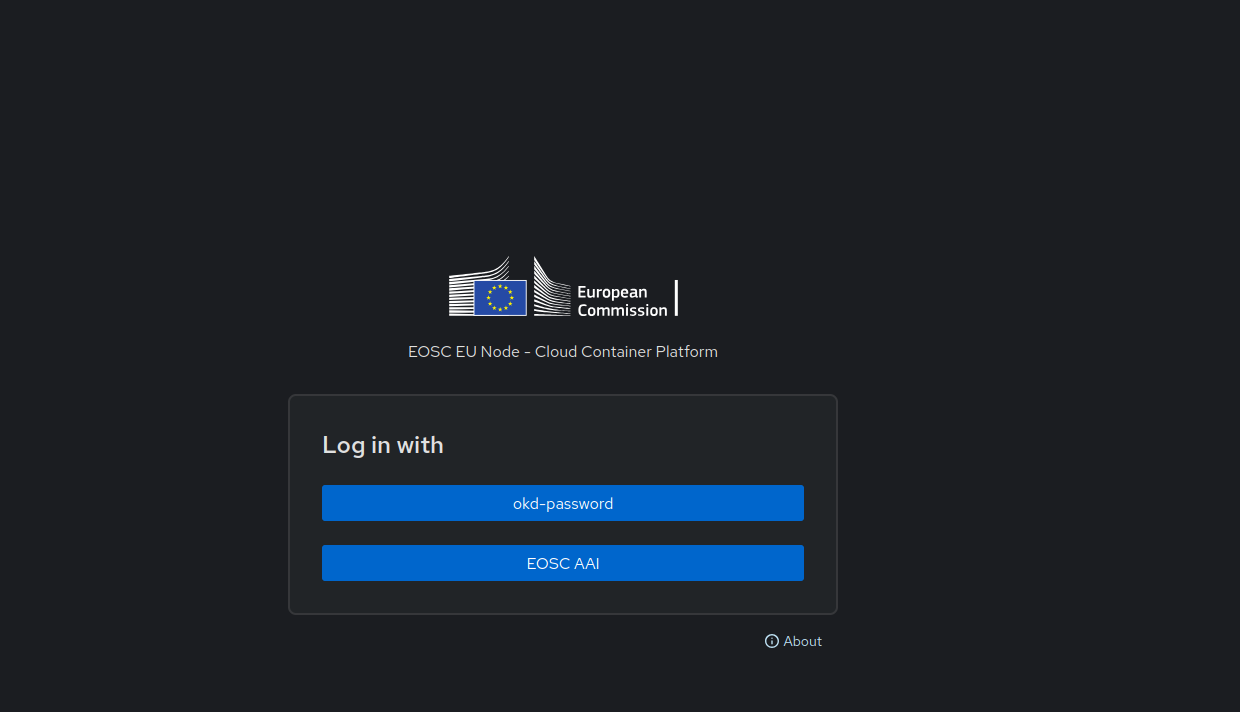
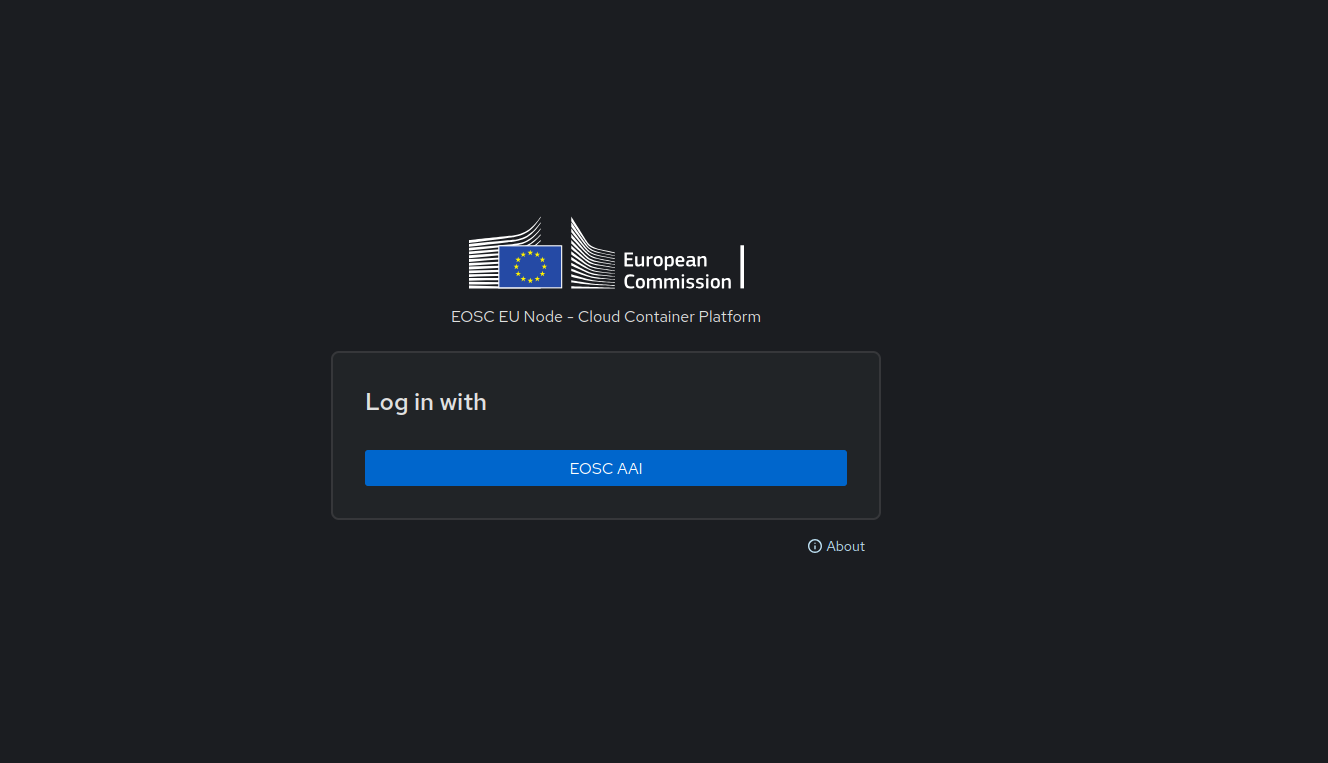
small adjustments guide container platform

diff --git a/content/container-platform/getting-started.md b/content/container-platform/getting-started.md
@@ -51,7 +51,7 @@ This configuration can be added via the Web Console using the `+` (plus) icon on
 
 ![Container Platform Add YAML](../images/cp-add-yaml.png)
 
-Check you are on the desired project, above the `Import YAML` title there is the name of the project and a dropdown you can select the appropriate project. From the CLI you can select the right project either by running `oc project <project_name>` or ading `-n <project_name>` as an option to the `oc` command.
+Check you are on the desired project, above the `Import YAML` title there is the name of the project and a dropdown you can select the appropriate project. From the CLI you can select the right project either by running `oc project <project_name>` or adding `-n <project_name>` as an option to the `oc` command.
 
 From the command line the `YAML` configuration can be saved as files and applied using `oc apply -f <file_path>` or specifying the project `oc apply -n <project_name> -f <file_path>`
 
@@ -59,7 +59,7 @@ From the command line the `YAML` configuration can be saved as files and applied
 
 #### Creating a Deployment
 
-Deployments manage rolling updates for an application. They typically contain a ReplicaSet and several pods. Another equivalent resource is a StatefulSet, that like a Deployment,  defines Pods based on container specification. But unlike a Deployment, a StatefulSet gives an expected and stable identity, with a persistent identifier that it is maintained across any event (upgrades, re-deployments, ...). A stateful set provides:
+Deployments manage rolling updates for an application. They typically contain a ReplicaSet and several pods. Another equivalent resource is a StatefulSet, that like a Deployment,  defines Pods based on container specification. But unlike a Deployment, a StatefulSet gives an expected and stable identity, with a persistent identifier that it is maintained across any event (upgrades, re-deployments, etc.). A stateful set provides:
 
 - Stable, unique network identifiers.
 - Stable, persistent storage.

diff --git a/content/container-platform/overview.md b/content/container-platform/overview.md
@@ -33,6 +33,11 @@ To login into the Container Platform Web console use the appropriate URL (e.g. E
 
 ![Container Platform Login](../images/cp-login.png)
 
+!!! note
+    To Display other login options use the keyboard key combination: `Ctrl/Cmd + Shift + H` or `Windows Key + Shift + H`.
+
+![Container Platform Login](../images/cp-login-2.png)
+
 All applications launched in the Container Platform will run within `projects` that have been requested by each user in the European Open Science Cloud. Each project has its own private virtual network and it is isolated from other projects. Users can only see projects they have access to.
 
 ![Container Platform Web Console](../images/cp-web-console.png)
@@ -54,7 +59,8 @@ To obtain the login access token go to the Web console and under the User menu (
 
 ```bash
 # for example EOSC production login using token 
-oc login --server=https://api.eu-2.paas.open-science-cloud.ec.europa.eu:6443 --token=<access-token>
+oc login --server=https://api.eu-2.paas.open-science-cloud.ec.europa.eu:6443 \
+    --token=<access-token>
 ```
 
 ### EOSC users

diff --git a/content/container-platform/networking.md b/content/container-platform/networking.md
@@ -24,7 +24,7 @@ spec:
 - **`termination`**: Determines how incoming encrypted traffic is handled.
     - **`edge`**: Handles incoming HTTPS traffic and redirects HTTP traffic to your pod. Your application doesn't manage HTTPS.
     - **`passthrough`**: Passes HTTPS traffic directly to your service without handling it. Your application must manage HTTPS. **Currently not supported.**
-    - **`reencrypt`**: Handles incoming HTTPS traffic and then reencrypts it with a different certificate (which can be self-signed). Your application must handle HTTPS for the new certificate.
+    - **`reencrypt`**: Handles incoming HTTPS traffic and then re-encrypts it with a different certificate (which can be self-signed). Your application must handle HTTPS for the new certificate.
 - **`insecureEdgeTerminationPolicy`**: Determines how incoming unencrypted traffic is managed.
     - **`Allow`**: Permits HTTP traffic (not recommended).
     - **`Redirect`**: Redirects clients to the HTTPS endpoint (recommended).

diff --git a/content/container-platform/registry.md b/content/container-platform/registry.md
@@ -90,6 +90,10 @@ Once your container image is ready, you can push it to your Container Registry u
 
 You can verify the results in the Registry dashboard by navigating to the **Projects** page via the left-hand menu and selecting the **library** project. Your image should be listed there.
 
+### Docker Hub Proxy
+
+In order to address the rate limiting imposed by Docker hub registry we provide a proxy available for internal use within the Container platform. This can be utilised by prefixing your images with the `registry.eu-2.paas.open-science-cloud.ec.europa.eu/base`, for example instead of `bitnami/redis` or `docker.io/bitnami/redis`, use image `registry.eu-2.paas.open-science-cloud.ec.europa.eu/base/bitnami/redis`.
+
 ## Working with Helm Charts
 
 !!! info "Helm"
